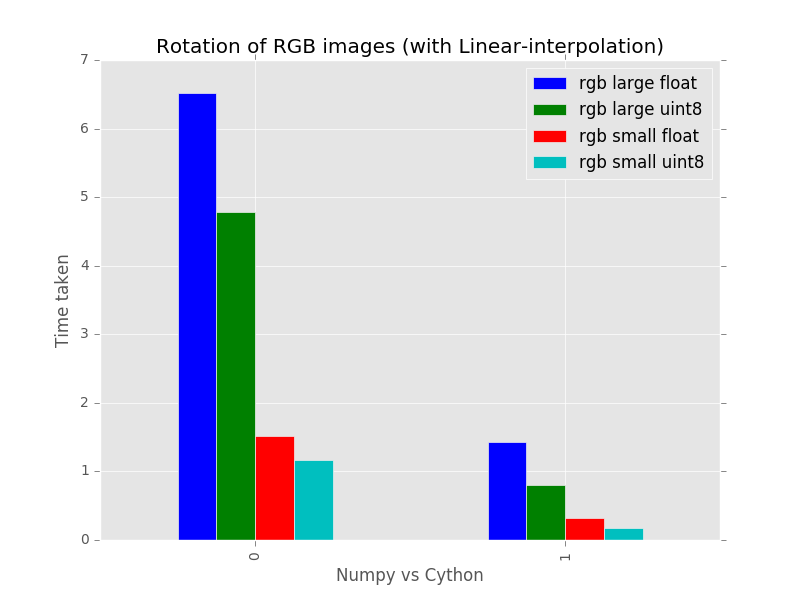
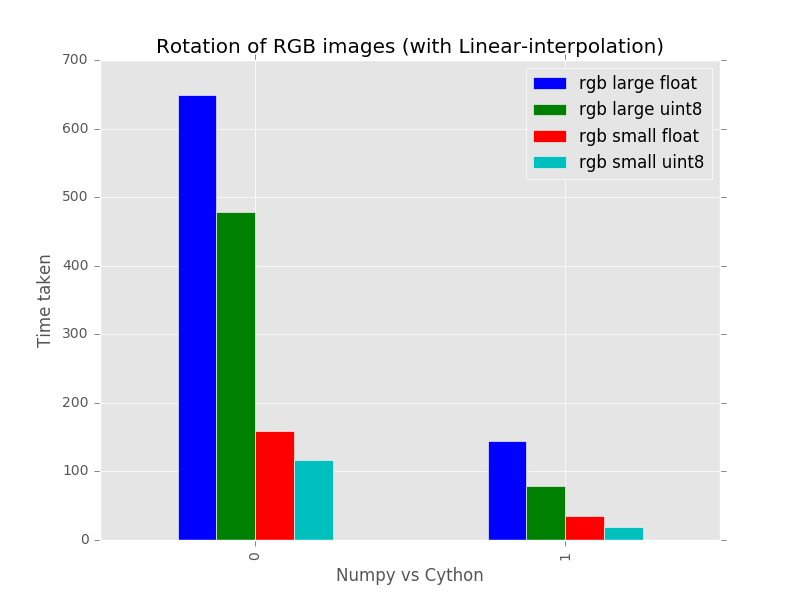
adding unittest log

diff --git a/README.md b/README.md
@@ -42,6 +42,7 @@ conda install pandas
 + To run the code just type. Compilation of c code for cython will be done by the pyximport utility when you run the
 `benchmark.py` file
 ```py
+git clone https://github.com/praveenneuron/Python-Cython-CUDA.git
 python benchmark.py
 ```
 + The unittest framework will run and dump the results in report folder
@@ -91,4 +92,198 @@ The code was run for 100 iterations you cn adjust it with `_ITER_NUM` variable.
 
 ```txt
 
+----------------------------------------------------------------------
+
+       *** Rotation of gray images (with NN-interpolation) ***
+
+----------------------------------------------------------------------
+
+test_image_grey_large_float (__main__.TestRotateNNGray) ...
+Time taken Numpy 	: 151.31482219696045
+Time taken Cython	: 36.94421911239624
+Time taken CUDA  	: Not available ....
+...........ok
+test_image_grey_large_uint8 (__main__.TestRotateNNGray) ...
+Time taken Numpy 	: 123.39914846420288
+Time taken Cython	: 16.95520257949829
+Time taken CUDA  	: Not available ....
+...........ok
+test_image_grey_small_float (__main__.TestRotateNNGray) ...
+Time taken Numpy 	: 35.40998888015747
+Time taken Cython	: 8.452341556549072
+Time taken CUDA  	: Not available ....
+...........ok
+test_image_grey_small_uint8 (__main__.TestRotateNNGray) ...
+Time taken Numpy 	: 30.000380992889404
+Time taken Cython	: 3.7491652965545654
+Time taken CUDA  	: Not available ....
+...........ok
+
+----------------------------------------------------------------------
+Ran 4 tests in 432.468s
+
+OK
+
+----------------------------------------------------------------------
+
+       *** Rotation of RGB images (with NN-interpolation) ***
+
+----------------------------------------------------------------------
+
+test_image_rgb_large_float (__main__.TestRotateNNRGB) ...
+Time taken Numpy 	: 591.0141146183014
+Time taken Cython	: 62.84261226654053
+Time taken CUDA  	: Not available ....
+...........ok
+test_image_rgb_large_uint8 (__main__.TestRotateNNRGB) ...
+Time taken Numpy 	: 388.97081446647644
+Time taken Cython	: 25.296037435531616
+Time taken CUDA  	: Not available ....
+...........ok
+test_image_rgb_small_float (__main__.TestRotateNNRGB) ...
+Time taken Numpy 	: 136.52729868888855
+Time taken Cython	: 14.830699443817139
+Time taken CUDA  	: Not available ....
+...........ok
+test_image_rgb_small_uint8 (__main__.TestRotateNNRGB) ...
+Time taken Numpy 	: 95.43055057525635
+Time taken Cython	: 5.61405348777771
+Time taken CUDA  	: Not available ....
+...........ok
+
+----------------------------------------------------------------------
+Ran 4 tests in 1339.251s
+
+OK
+
+----------------------------------------------------------------------
+
+     *** Rotation of gray images (with Linear-interpolation) ***
+
+----------------------------------------------------------------------
+
+test_image_grey_large_float (__main__.TestRotateLinGray) ...
+Time taken Numpy 	: 178.00181245803833
+Time taken Cython	: 46.812225580215454
+Time taken CUDA  	: Not available ....
+...........ok
+test_image_grey_large_uint8 (__main__.TestRotateLinGray) ...
+Time taken Numpy 	: 153.71812272071838
+Time taken Cython	: 32.40706133842468
+Time taken CUDA  	: Not available ....
+...........ok
+test_image_grey_small_float (__main__.TestRotateLinGray) ...
+Time taken Numpy 	: 43.1264967918396
+Time taken Cython	: 10.751116752624512
+Time taken CUDA  	: Not available ....
+...........ok
+test_image_grey_small_uint8 (__main__.TestRotateLinGray) ...
+Time taken Numpy 	: 38.20052409172058
+Time taken Cython	: 6.512584924697876
+Time taken CUDA  	: Not available ....
+...........ok
+
+----------------------------------------------------------------------
+Ran 4 tests in 535.673s
+
+OK
+
+----------------------------------------------------------------------
+
+     *** Rotation of RGB images (with Linear-interpolation) ***
+
+----------------------------------------------------------------------
+
+test_image_rgb_large_float (__main__.TestRotateLinRGB) ...
+Time taken Numpy 	: 648.240086555481
+Time taken Cython	: 143.8962905406952
+Time taken CUDA  	: Not available ....
+...........ok
+test_image_rgb_large_uint8 (__main__.TestRotateLinRGB) ...
+Time taken Numpy 	: 478.977468252182
+Time taken Cython	: 78.14135432243347
+Time taken CUDA  	: Not available ....
+...........ok
+test_image_rgb_small_float (__main__.TestRotateLinRGB) ...
+Time taken Numpy 	: 158.55249094963074
+Time taken Cython	: 34.45909404754639
+Time taken CUDA  	: Not available ....
+...........ok
+test_image_rgb_small_uint8 (__main__.TestRotateLinRGB) ...
+Time taken Numpy 	: 116.78005647659302
+Time taken Cython	: 18.58473801612854
+Time taken CUDA  	: Not available ....
+...........ok
+
+----------------------------------------------------------------------
+Ran 4 tests in 1698.162s
+
+OK
+
+----------------------------------------------------------------------
+
+                 *** Sub sampling of gray images  ***
+
+----------------------------------------------------------------------
+
+test_image_grey_large_float (__main__.TestSubSamplingGray) ...
+Time taken Numpy 	: 10.621656894683838
+Time taken Cython	: 3.1351451873779297
+Time taken CUDA  	: Not available ....
+...........ok
+test_image_grey_large_uint8 (__main__.TestSubSamplingGray) ...
+Time taken Numpy 	: 3.7409982681274414
+Time taken Cython	: 0.7685854434967041
+Time taken CUDA  	: Not available ....
+...........ok
+test_image_grey_small_float (__main__.TestSubSamplingGray) ...
+Time taken Numpy 	: 2.3244316577911377
+Time taken Cython	: 0.8110001087188721
+Time taken CUDA  	: Not available ....
+...........ok
+test_image_grey_small_uint8 (__main__.TestSubSamplingGray) ...
+Time taken Numpy 	: 0.9299986362457275
+Time taken Cython	: 0.19199752807617188
+Time taken CUDA  	: Not available ....
+...........ok
+
+----------------------------------------------------------------------
+Ran 4 tests in 31.435s
+
+OK
+
+----------------------------------------------------------------------
+
+                 *** Sub sampling of RGB images  ***
+
+----------------------------------------------------------------------
+
+test_image_rgb_large_float (__main__.TestSubSamplingRGB) ...
+Time taken Numpy 	: 30.34756565093994
+  max_open_warning, RuntimeWarning)
+Time taken Cython	: 8.097901582717896
+Time taken CUDA  	: Not available ....
+...........ok
+test_image_rgb_large_uint8 (__main__.TestSubSamplingRGB) ...
+Time taken Numpy 	: 14.92826771736145
+Time taken Cython	: 3.053738832473755
+Time taken CUDA  	: Not available ....
+...........ok
+test_image_rgb_small_float (__main__.TestSubSamplingRGB) ...
+Time taken Numpy 	: 8.16323471069336
+Time taken Cython	: 2.373201608657837
+Time taken CUDA  	: Not available ....
+...........ok
+test_image_rgb_small_uint8 (__main__.TestSubSamplingRGB) ...
+Time taken Numpy 	: 3.756680965423584
+Time taken Cython	: 0.7535483837127686
+Time taken CUDA  	: Not available ....
+...........ok
+
+----------------------------------------------------------------------
+Ran 4 tests in 79.440s
+
+OK
+
+Process finished with exit code 0
 ```
